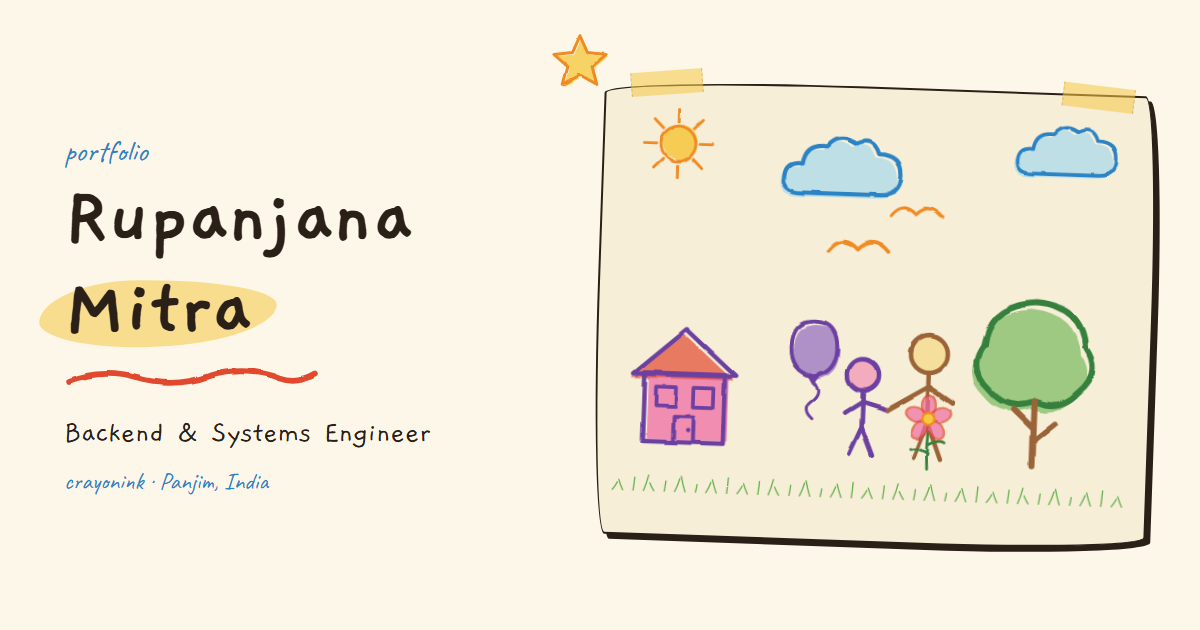
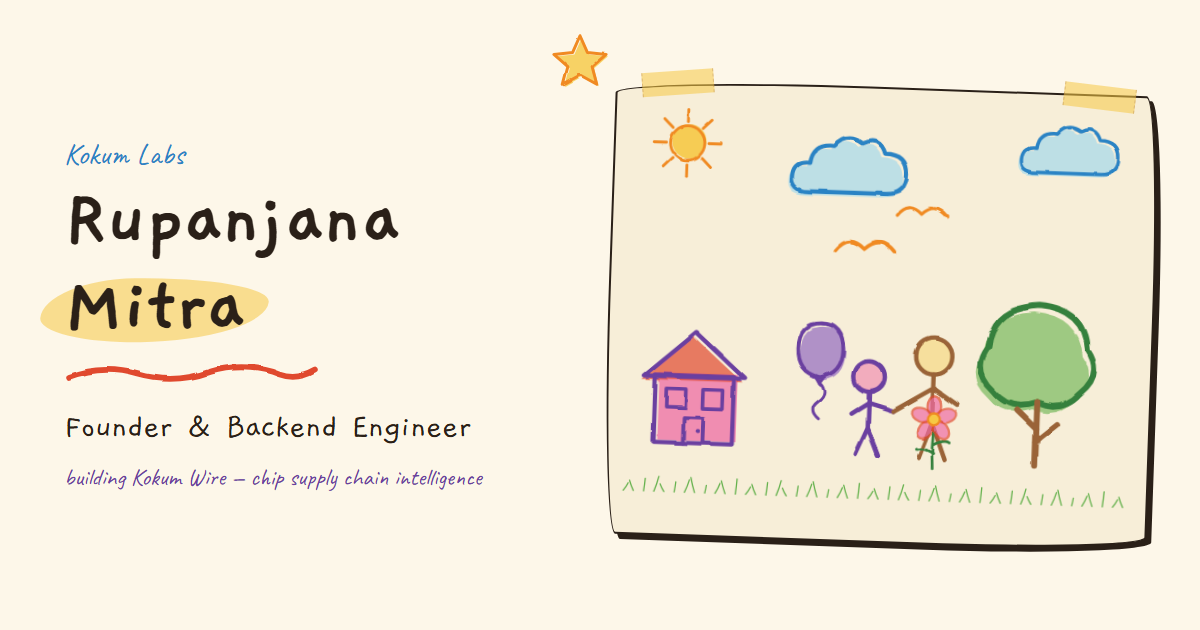
Reposition the site around Kokum Wire; correct the stack and the timeline
The site read as a job-search page. Rupanjana is building a company, so:

- New "Kokum Wire" section leads the page, straight after the hero: the
  positioning, the four capabilities, and a link to wire.kokumlabs.in. Copy is
  taken from the product site, not invented.
- Contact no longer offers her for hire. It invites chip buyers, investors and
  anyone who wants to argue about supply chain data.
- Nav leads with Kokum Wire.

Corrections:
- The shipped Encon systems (Offer Generator, RFQ Tracker) are Python/FastAPI
  and now lead Work as the flagship — they have users and the 70%/75% numbers
  behind them. The two Java projects were reading as the main event despite
  being learning exercises; they move down and drop the "simulated" framing.
- Skills lead with Python/FastAPI.
- "Uber driver" -> "Uber bike rider" in both places it appeared.
- BillDesk gains a note that the January 2016 start was the offered joining
  date, closing what looked like an unexplained gap after graduating.
- OG card regenerated for the new role.

diff --git a/content/site.ts b/content/site.ts
@@ -7,19 +7,19 @@
 export const site = {
   /* ---- Basics ------------------------------------------------------------ */
   name: "Rupanjana Mitra",
-  role: "Backend & Systems Engineer",
+  role: "Founder & Backend Engineer",
   tagline:
-    "Backend & systems engineer who replaces fragile spreadsheets with systems that hold up",
+    "Founder of Kokum Labs, building Kokum Wire — supply chain intelligence for semiconductor procurement",
   location: "Panjim, India",
   intro:
-    "I build backend systems for business-critical commercial workflows — the pricing, approval and payment paths a company cannot afford to get wrong. I care about correctness, and about the person who has to run this at 2am.",
+    "I build backend systems for the parts of a business that cannot afford to be wrong — pricing, approvals, procurement. Right now I'm building Kokum Wire, which watches the chip supply chain and tells you, with dates and sources, what just changed and what to do about it.",
 
   /* ---- Hero rotating words ----------------------------------------------- */
   rotatingWords: [
+    "supply chain intelligence",
     "pricing engines",
-    "payment flows",
-    "fewer manual errors",
-    "systems that hold up",
+    "systems with real users",
+    "things that ship",
   ],
 
   /* ---- Contact & links --------------------------------------------------- */
@@ -56,6 +56,38 @@ export const site = {
     ],
   },
 
+  /* ---- What I'm building ------------------------------------------------- */
+  // The headline act. Copy is drawn from wire.kokumlabs.in — check the wording
+  // still matches the product before you send this to anyone who matters.
+  venture: {
+    eyebrow: "what I'm building right now",
+    company: "Kokum Labs",
+    product: "Kokum Wire",
+    headline: "Supply Chain Intelligence for Semiconductor Procurement",
+    pitch:
+      "Kokum Wire watches the chip supply chain and tells you — with dates and sources — what just changed and what to do about it.",
+    body: "It reads the signals that move semiconductor supply before they show up in a price: earnings calls, export data, equipment orders, hiring trends, government filings. Then it condenses them into something a buyer can act on. Every verdict is dated and sourced. Press releases don't count.",
+    href: "https://wire.kokumlabs.in",
+    features: [
+      {
+        title: "Ask the ledger",
+        body: "Query what changed in the supply chain, in plain language.",
+      },
+      {
+        title: "Synthesis desk",
+        body: "Cross-reference scattered signals into a single read.",
+      },
+      {
+        title: "Decision desk",
+        body: "Weigh buy timing against inventory, allocation and pricing.",
+      },
+      {
+        title: "Chip origin map",
+        body: "See where parts are actually made, and which suppliers are under stress.",
+      },
+    ],
+  },
+
   /* ---- Who I am ---------------------------------------------------------- */
   // The personal section. Everything here is yours to rewrite — it's the one
   // part of the site that isn't sourced from the résumé.
@@ -73,7 +105,7 @@ export const site = {
     },
 
     paragraphs: [
-      "I have worn multiple hats — from being a fairly successful Airbnb host with 200+ reviews, to being a fitness coach, a Math tutor, driving Uber, working as a tour guide, waiting tables in a high-end restaurant, and selling food on the street.",
+      "I have worn multiple hats — from being a fairly successful Airbnb host with 200+ reviews, to being a fitness coach, a Math tutor, riding for Uber, working as a tour guide, waiting tables in a high-end restaurant, and selling food on the street.",
       "I took up these jobs during my career break so I wouldn't have to depend on my parents' money, though they have been supportive of all my decisions. I get impatient if I'm not doing enough with my time. I like to try new things and see where they go. I can be very pragmatic without losing the bigger vision at its core.",
     ],
 
@@ -82,7 +114,7 @@ export const site = {
       { label: "Airbnb host", detail: "200+ reviews", color: "bg-crayon-pink" },
       { label: "Fitness coach", detail: "", color: "bg-crayon-yellow" },
       { label: "Math tutor", detail: "", color: "bg-crayon-sky" },
-      { label: "Uber driver", detail: "", color: "bg-crayon-green" },
+      { label: "Uber bike rider", detail: "", color: "bg-crayon-green" },
       { label: "Tour guide", detail: "", color: "bg-crayon-yellow" },
       { label: "Waiter", detail: "high-end restaurant", color: "bg-crayon-pink" },
       { label: "Street food seller", detail: "", color: "bg-crayon-sky" },
@@ -100,11 +132,11 @@ export const site = {
   skills: [
     {
       group: "Languages",
-      items: ["Java", "Python", "C++", "SQL", "JavaScript"],
+      items: ["Python", "Java", "SQL", "JavaScript", "C++"],
     },
     {
       group: "Frameworks",
-      items: ["Spring Boot", "Spring Security"],
+      items: ["FastAPI", "Spring Boot", "Spring Security"],
     },
     {
       group: "Systems",
@@ -118,30 +150,54 @@ export const site = {
 
   /* ---- Projects ---------------------------------------------------------- */
   // `featured: true` gives a project a larger card.
+  // Shipped-and-in-use first, then the ones built to learn. The Encon systems
+  // are the ones with users and numbers attached, so they lead.
+  // TODO(Rupanjana): check the two Encon descriptions match what they really do.
   projects: [
     {
-      title: "Pricing & Workflow Engine",
+      title: "Offer Generator",
       blurb:
-        "A backend system that replaced manual pricing workflows with rule-based computation and validation. Configurable pricing rules, multi-step approval flows, and data models designed so that a wrong number simply cannot get through.",
-      tags: ["Java", "Spring Boot", "PostgreSQL"],
+        "Replaced spreadsheet-driven costing and offer creation at Encon with a real backend service. Pricing rules live in the system instead of in a workbook someone forgot to update, and every offer goes through the same validated path.",
+      tags: ["Python", "FastAPI", "PostgreSQL"],
       impact:
-        "Correctness enforced by validation layers and deterministic processing, exercised against simulated real-world usage.",
+        "Cut offer turnaround by 70% and manual errors by 75%. In daily use by the commercial team.",
       href: "",
       repo: "",
       year: "2026",
       featured: true,
     },
     {
-      title: "Payment Processing & Reconciliation Service",
+      title: "RFQ Tracker",
       blurb:
-        "A service modelling real payment flows end to end — order creation, payment initiation, status tracking. Idempotent APIs so retries never double-charge, and asynchronous reconciliation that pulls system and payment state back together.",
-      tags: ["Java", "Spring Boot", "PostgreSQL"],
-      impact:
-        "Failure scenarios modelled explicitly, with retry-driven eventual consistency.",
+        "Tracks requests for quotation through the whole commercial pipeline — intake, costing, approval, response — so nothing stalls silently and everyone can see where a quote actually is.",
+      tags: ["Python", "FastAPI", "PostgreSQL"],
+      impact: "Running in production at Encon.",
       href: "",
       repo: "",
       year: "2026",
       featured: true,
+    },
+    {
+      title: "Pricing & Workflow Engine",
+      blurb:
+        "A rule-based pricing and multi-step approval engine, built to get the data modelling right: configurable rules, validation layers, and deterministic processing so a wrong number can't get through.",
+      tags: ["Java", "Spring Boot", "PostgreSQL"],
+      impact: "",
+      href: "",
+      repo: "",
+      year: "2026",
+      featured: false,
+    },
+    {
+      title: "Payment Processing & Reconciliation Service",
+      blurb:
+        "Payment flows end to end — order creation, initiation, status tracking. Idempotent APIs so retries never double-charge, and asynchronous reconciliation that pulls system and payment state back together after failure.",
+      tags: ["Java", "Spring Boot", "PostgreSQL"],
+      impact: "",
+      href: "",
+      repo: "",
+      year: "2026",
+      featured: false,
     },
     {
       title: "KDE Sheets — Google Summer of Code",
@@ -178,7 +234,7 @@ export const site = {
       period: "Aug 2018 — Dec 2025",
       points: [
         "Took a structured break to prioritise mental health and long-term sustainability.",
-        "Stayed self-supporting throughout: Airbnb host with 200+ reviews, fitness coach, Math tutor, Uber driver, tour guide, waiter, and street food seller.",
+        "Stayed self-supporting throughout: Airbnb host with 200+ reviews, fitness coach, Math tutor, Uber bike rider, tour guide, waiter, and street food seller.",
         "Featured in The Economic Times for resilience.",
       ],
     },
@@ -187,6 +243,8 @@ export const site = {
       company: "BillDesk",
       place: "Mumbai, India",
       period: "Jan 2016 — Jul 2018",
+      // Closes the May-2015-to-Jan-2016 gap, which otherwise reads as unexplained.
+      note: "Offer in hand on graduating; BillDesk's joining date was January 2016.",
       points: [
         "Developed Java and Spring backend services for internal payment systems.",
         "Optimised PostgreSQL schemas for transactional correctness and reporting.",
@@ -213,8 +271,8 @@ export const site = {
 
   /* ---- Contact section text ---------------------------------------------- */
   contact: {
-    heading: "Let's build something that holds up",
-    body: "I'm open to backend and systems roles, and to collaborations where correctness actually matters. Email is the fastest way to reach me — I reply to everything.",
+    heading: "Come talk to me about chips",
+    body: "I'm building Kokum Wire. If you buy semiconductors, invest in the people who do, or just want to argue about supply chain data — I'd like to hear from you. Email is fastest, or grab a slot straight in my calendar.",
   },
 };
 

diff --git a/components/Building.tsx b/components/Building.tsx
@@ -1,0 +1,75 @@
+import { site } from "@/content/site";
+import Reveal from "./Reveal";
+import SectionHeading from "./SectionHeading";
+import { ArrowDoodle, Star, Cloud, Bird, Kite } from "./Doodles";
+
+const TILTS = ["-rotate-1", "rotate-1", "rotate-[0.7deg]", "-rotate-[1.2deg]"];
+
+export default function Building() {
+  const v = site.venture;
+
+  return (
+    <section id="building" className="relative px-6 py-24 sm:py-32">
+      <div aria-hidden className="pointer-events-none absolute inset-0 -z-10">
+        <Cloud className="absolute right-[5%] top-14 w-28 opacity-50" />
+        <Kite className="absolute left-[3%] top-20 hidden w-14 animate-sway opacity-70 lg:block" />
+        <Bird className="absolute right-[22%] top-28 w-12 animate-float opacity-70" />
+      </div>
+
+      <div className="mx-auto max-w-6xl">
+        <SectionHeading eyebrow={v.eyebrow} title={v.product} />
+
+        {/* ---------------- The pitch ---------------- */}
+        <Reveal>
+          <div className="crayon-box sticker relative mt-14 -rotate-1 bg-crayon-sky/20 p-8 transition-transform duration-300 hover:rotate-0 sm:p-12">
+            <Star className="absolute -right-5 -top-6 w-16 animate-wiggle" />
+
+            <p className="font-hand text-2xl text-crayon-blue">{v.company}</p>
+
+            <h3 className="mt-2 font-display text-[clamp(1.9rem,4.2vw,3rem)] leading-tight text-ink">
+              {v.headline}
+            </h3>
+
+            <p className="mt-6 max-w-3xl font-display text-2xl leading-snug text-crayon-plum sm:text-3xl">
+              {v.pitch}
+            </p>
+
+            <p className="mt-6 max-w-3xl text-lg leading-relaxed text-ink-soft">
+              {v.body}
+            </p>
+
+            {v.href && (
+              <a
+                href={v.href}
+                target="_blank"
+                rel="noopener noreferrer"
+                className="crayon-chip sticker-sm mt-8 inline-flex rotate-1 items-center gap-2 bg-crayon-yellow px-7 py-3 font-display text-2xl text-ink transition-transform hover:-rotate-1 hover:-translate-y-1"
+              >
+                See Kokum Wire
+                <ArrowDoodle className="w-7" stroke="var(--color-ink)" fine />
+              </a>
+            )}
+          </div>
+        </Reveal>
+
+        {/* ---------------- What it does ---------------- */}
+        <div className="mt-10 grid gap-6 sm:grid-cols-2">
+          {v.features.map((f, i) => (
+            <Reveal key={f.title} delay={i * 90}>
+              <div
+                className={`crayon-box${i % 2 ? "-alt" : ""} sticker-sm h-full bg-paper-2 p-6 ${
+                  TILTS[i % TILTS.length]
+                } transition-transform duration-300 hover:rotate-0`}
+              >
+                <h4 className="font-display text-2xl leading-tight text-ink">
+                  {f.title}
+                </h4>
+                <p className="mt-2 leading-relaxed text-ink-soft">{f.body}</p>
+              </div>
+            </Reveal>
+          ))}
+        </div>
+      </div>
+    </section>
+  );
+}

diff --git a/components/Experience.tsx b/components/Experience.tsx
@@ -77,6 +77,12 @@ export default function Experience() {
                       </p>
                     )}
 
+                    {"note" in job && job.note && (
+                      <p className="font-hand mt-1.5 text-lg text-crayon-blue">
+                        {job.note}
+                      </p>
+                    )}
+
                     <ul className="mt-4 space-y-2.5">
                       {job.points.map((point) => (
                         <li

diff --git a/app/page.tsx b/app/page.tsx
@@ -1,5 +1,6 @@
 import Nav from "@/components/Nav";
 import Hero from "@/components/Hero";
+import Building from "@/components/Building";
 import Projects from "@/components/Projects";
 import About from "@/components/About";
 import Me from "@/components/Me";
@@ -14,6 +15,7 @@ export default function Home() {
       <Nav />
       <main>
         <Hero />
+        <Building />
         <Projects />
         <About />
         <Me />

diff --git a/components/Nav.tsx b/components/Nav.tsx
@@ -5,6 +5,7 @@ import { site } from "@/content/site";
 import { CircleScribble } from "./Doodles";
 
 const SECTIONS = [
+  { id: "building", label: "Kokum Wire" },
   { id: "work", label: "Work" },
   { id: "about", label: "About" },
   { id: "me", label: "Me" },
